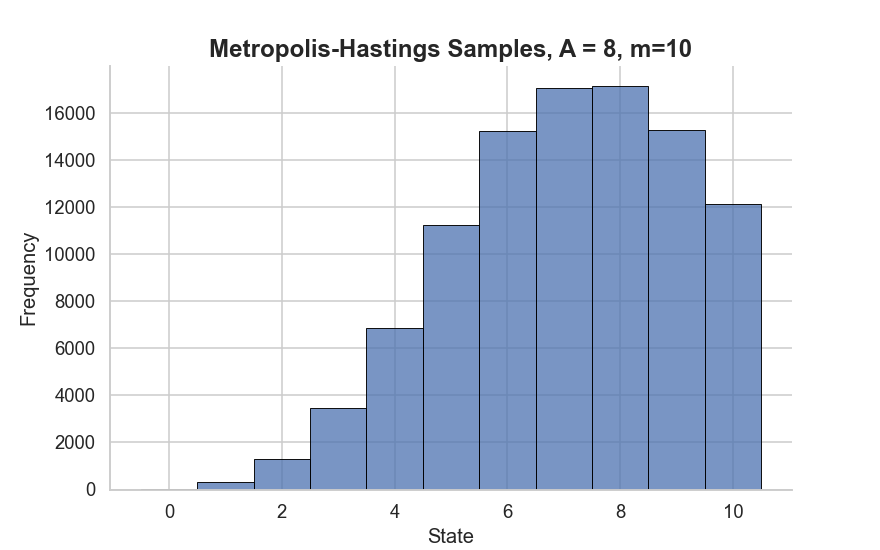
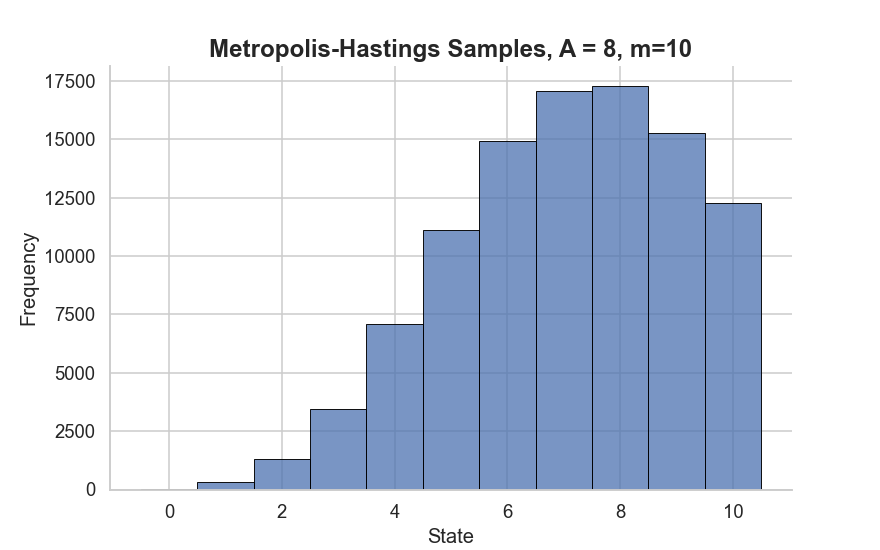
final updates

diff --git a/exercises/day5/mathilde/joint_lines.py b/exercises/day5/mathilde/joint_lines.py
@@ -16,78 +16,76 @@ def theoretical_grid(A1: float, A2: float, m: int) -> np.ndarray:
 
 def mh_direct(A1: float, A2: float, m: int, n: int, rng: np.random.Generator, burn_in: int = 1000, thin: int = 10) -> np.ndarray:
     """Direct 2D M-H random walk."""
+    weights = theoretical_grid(A1, A2, m)
+    total_steps = burn_in + n * thin
+    r = rng.random(total_steps)
+    u = rng.random(total_steps)
+
     samples = np.empty((n, 2), dtype=int)
     curr_i, curr_j = 0, 0
-    
-    total_steps = burn_in + n * thin
     for step in range(total_steps):
-        r = rng.random()
-        di, dj = 0, 0
-        if r < 0.25:
-            di = 1
-        elif r < 0.5:
-            di = -1
-        elif r < 0.75:
-            dj = 1
+        ri = r[step]
+        if ri < 0.25:
+            di, dj = 1, 0
+        elif ri < 0.5:
+            di, dj = -1, 0
+        elif ri < 0.75:
+            di, dj = 0, 1
         else:
-            dj = -1
-            
+            di, dj = 0, -1
+
         prop_i, prop_j = curr_i + di, curr_j + dj
-        
-        if prop_i < 0 or prop_i > m or prop_j < 0 or prop_j > m or prop_i + prop_j > m:
-            pass
-        else:
-            acc_prob = min(1.0, unnormalized_joint_pmf(A1, A2, prop_i, prop_j) / unnormalized_joint_pmf(A1, A2, curr_i, curr_j))
-            if rng.random() < acc_prob:
+        if 0 <= prop_i <= m and 0 <= prop_j <= m and prop_i + prop_j <= m:
+            if u[step] < weights[prop_i, prop_j] / weights[curr_i, curr_j]:
                 curr_i, curr_j = prop_i, prop_j
-                
+
         if step >= burn_in and (step - burn_in) % thin == 0:
             samples[(step - burn_in) // thin] = (curr_i, curr_j)
-            
+
     return samples
 
 def mh_coordinate(A1: float, A2: float, m: int, n: int, rng: np.random.Generator, burn_in: int = 1000, thin: int = 10) -> np.ndarray:
     """Coordinate-wise M-H choosing one coordinate to update at random."""
+    weights = theoretical_grid(A1, A2, m)
+    total_steps = burn_in + n * thin
+    coord = rng.random(total_steps) < 0.5
+    move = np.where(rng.random(total_steps) < 0.5, 1, -1)
+    u = rng.random(total_steps)
+
     samples = np.empty((n, 2), dtype=int)
     curr_i, curr_j = 0, 0
-    
-    total_steps = burn_in + n * thin
     for step in range(total_steps):
-        if rng.random() < 0.5:
-            prop_i, prop_j = curr_i + (1 if rng.random() < 0.5 else -1), curr_j
+        if coord[step]:
+            prop_i, prop_j = curr_i + move[step], curr_j
         else:
-            prop_i, prop_j = curr_i, curr_j + (1 if rng.random() < 0.5 else -1)
-            
-        if prop_i < 0 or prop_i > m or prop_j < 0 or prop_j > m or prop_i + prop_j > m:
-            pass
-        else:
-            acc_prob = min(1.0, unnormalized_joint_pmf(A1, A2, prop_i, prop_j) / unnormalized_joint_pmf(A1, A2, curr_i, curr_j))
-            if rng.random() < acc_prob:
+            prop_i, prop_j = curr_i, curr_j + move[step]
+
+        if 0 <= prop_i <= m and 0 <= prop_j <= m and prop_i + prop_j <= m:
+            if u[step] < weights[prop_i, prop_j] / weights[curr_i, curr_j]:
                 curr_i, curr_j = prop_i, prop_j
-                
+
         if step >= burn_in and (step - burn_in) % thin == 0:
             samples[(step - burn_in) // thin] = (curr_i, curr_j)
-            
+
     return samples
 
 def gibbs(A1: float, A2: float, m: int, n: int, rng: np.random.Generator, burn_in: int = 1000, thin: int = 10) -> np.ndarray:
     """Gibbs sampling with exact conditionals."""
+    cum1 = np.cumsum([(A1 ** k) / math.factorial(k) for k in range(m + 1)])
+    cum2 = np.cumsum([(A2 ** k) / math.factorial(k) for k in range(m + 1)])
+    total_steps = burn_in + n * thin
+    u_i = rng.random(total_steps)
+    u_j = rng.random(total_steps)
+
     samples = np.empty((n, 2), dtype=int)
     i, j = 0, 0
-    
-    total_steps = burn_in + n * thin
     for step in range(total_steps):
-        # sample i | j
-        support_i = np.arange(m - j + 1)
-        cond_density_i = np.array([(A1 ** k) / math.factorial(k) for k in support_i])
-        i = rng.choice(support_i, p=cond_density_i / np.sum(cond_density_i))
-        
-        # sample j | i
-        support_j = np.arange(m - i + 1)
-        cond_density_j = np.array([(A2 ** k) / math.factorial(k) for k in support_j])
-        j = rng.choice(support_j, p=cond_density_j / np.sum(cond_density_j))
-        
+        c_i = cum1[: m - j + 1]
+        i = int(np.searchsorted(c_i, u_i[step] * c_i[-1]))
+        c_j = cum2[: m - i + 1]
+        j = int(np.searchsorted(c_j, u_j[step] * c_j[-1]))
+
         if step >= burn_in and (step - burn_in) % thin == 0:
             samples[(step - burn_in) // thin] = (i, j)
-            
+
     return samples

diff --git a/exercises/day5/mathilde/main.py b/exercises/day5/mathilde/main.py
@@ -22,6 +22,7 @@ A1 = 4.0
 A2 = 4.0
 RHO = 0.5
 N_SAMPLES = 100_000
+DATA_SIZES = (10, 100, 1000)
 OUT = Path(__file__).resolve().parent
 
 def _theoretical_pmf_1d(A: float, m: int) -> np.ndarray:
@@ -90,37 +91,23 @@ def part3_bayesian(rng: np.random.Generator) -> None:
     print("\n=== Part 3: Bayesian Model ===")
     true_theta, true_psi = draw_prior(RHO, rng)
     print(f"  True (theta, psi) drawn from prior: ({true_theta:.4f}, {true_psi:.4f})")
-    
+
     import seaborn as sns
     import matplotlib.pyplot as plt
-    
-    # Generate 100 data points (Mathias used 100 for his posterior plot)
-    X_obs_100 = rng.normal(true_theta, np.sqrt(true_psi), size=100)
-    samples_100 = mh_posterior(X_obs_100, RHO, n_samples=100000, rng=rng, step=1.0, burn_in=10000, thin=10)
-    
-    theta_s = [s[0] for s in samples_100]
-    psi_s = [s[1] for s in samples_100]
-    
-    g = sns.jointplot(x=theta_s, y=psi_s, kind="scatter", alpha=0.3)
-    g.plot_joint(sns.kdeplot, color="red", levels=8, zorder=2)
-    g.figure.suptitle(f"Posterior Samples with rho={RHO}, n=100000", y=1.02)
-    g.set_axis_labels(r"$\theta$", r"$\psi$")
-    g.savefig(OUT / "part3_posterior.png")
-    plt.close()
-    
-    # Generate 1000 data points (Mathias used 1000 for his log posterior plot)
-    X_obs_1000 = rng.normal(true_theta, np.sqrt(true_psi), size=1000)
-    samples_1000 = mh_posterior(X_obs_1000, RHO, n_samples=100000, rng=rng, step=1.0, burn_in=10000, thin=10)
-    
-    theta_s_1000 = [s[0] for s in samples_1000]
-    psi_s_1000 = [s[1] for s in samples_1000]
-    
-    g2 = sns.jointplot(x=theta_s_1000, y=psi_s_1000, kind="scatter", alpha=0.3)
-    g2.plot_joint(sns.kdeplot, color="red", levels=8, zorder=2)
-    g2.figure.suptitle(f"Log Posterior Samples with rho={RHO}, n=100000", y=1.02)
-    g2.set_axis_labels(r"$\theta$", r"$\psi$")
-    g2.savefig(OUT / "part3_log_posterior.png")
-    plt.close()
+
+    for n in DATA_SIZES:
+        X_obs = rng.normal(true_theta, np.sqrt(true_psi), size=n)
+        samples = mh_posterior(X_obs, RHO, n_samples=N_SAMPLES, rng=rng, step=1.0, burn_in=10000, thin=10)
+
+        theta_s, psi_s = samples[:, 0], samples[:, 1]
+        print(f"  n={n:<4}: posterior mean (theta, psi) = ({theta_s.mean():.4f}, {psi_s.mean():.4f})")
+
+        g = sns.jointplot(x=theta_s, y=psi_s, kind="scatter", alpha=0.3)
+        g.plot_joint(sns.kdeplot, color="red", levels=8, zorder=2)
+        g.figure.suptitle(f"Posterior Samples with rho={RHO}, data n={n}", y=1.02)
+        g.set_axis_labels(r"$\theta$", r"$\psi$")
+        g.savefig(OUT / f"part3_posterior_n{n}.png")
+        plt.close()
 
 def main() -> None:
     rng = np.random.default_rng(SEED)

diff --git a/exercises/day5/mathilde/bayesian.py b/exercises/day5/mathilde/bayesian.py
@@ -26,27 +26,37 @@ def log_posterior(theta: float, psi: float, X: np.ndarray, rho: float) -> float:
 
 def mh_posterior(X_obs: np.ndarray, rho: float, n_samples: int, rng: np.random.Generator, step: float = 0.5, burn_in: int = 1000, thin: int = 10) -> np.ndarray:
     """Coordinate-wise random-walk M-H for the posterior."""
-    samples = np.empty((n_samples, 2))
-    # Start at a reasonable point
-    curr_theta = max(0.1, np.mean(X_obs))
-    curr_psi = max(0.1, np.var(X_obs))
-    
+    n = len(X_obs)
+    sum_x = float(np.sum(X_obs))
+    sum_x2 = float(np.sum(X_obs ** 2))
+
+    def log_post(theta: float, psi: float) -> float:
+        ll = -0.5 * n * np.log(2 * np.pi * psi) - (sum_x2 - 2 * theta * sum_x + n * theta**2) / (2 * psi)
+        return log_prior(theta, psi, rho) + ll
+
     total_steps = burn_in + n_samples * thin
+    deltas = rng.normal(0.0, step, total_steps)
+    which = rng.random(total_steps) < 0.5   # True → update theta
+    u = rng.random(total_steps)
+
+    samples = np.empty((n_samples, 2))
+    curr_theta = max(0.1, sum_x / n)
+    curr_psi = max(0.1, sum_x2 / n - (sum_x / n) ** 2)
+    curr_lp = log_post(curr_theta, curr_psi)
+
     for i in range(total_steps):
-        delta = rng.normal(loc=0, scale=step)
-        if rng.random() < 0.5:
-            prop_theta, prop_psi = curr_theta + delta, curr_psi
+        if which[i]:
+            prop_theta, prop_psi = curr_theta + deltas[i], curr_psi
         else:
-            prop_theta, prop_psi = curr_theta, curr_psi + delta
-            
-        if prop_psi <= 0 or prop_theta <= 0:
-            pass # reject
-        else:
-            acc_ratio = min(1.0, np.exp(log_posterior(prop_theta, prop_psi, X_obs, rho) - log_posterior(curr_theta, curr_psi, X_obs, rho)))
-            if rng.random() < acc_ratio:
+            prop_theta, prop_psi = curr_theta, curr_psi + deltas[i]
+
+        if prop_theta > 0 and prop_psi > 0:
+            prop_lp = log_post(prop_theta, prop_psi)
+            if u[i] < np.exp(min(0.0, prop_lp - curr_lp)):
                 curr_theta, curr_psi = prop_theta, prop_psi
-                
+                curr_lp = prop_lp
+
         if i >= burn_in and (i - burn_in) % thin == 0:
             samples[(i - burn_in) // thin] = (curr_theta, curr_psi)
-            
+
     return samples

diff --git a/exercises/day5/mathilde/truncated_poisson.py b/exercises/day5/mathilde/truncated_poisson.py
@@ -7,23 +7,19 @@ def unnormalized_pmf(A: float, i: int) -> float:
     return (A ** i) / math.factorial(i)
 
 def mh_sample(A: float, m: int, n: int, rng: np.random.Generator, burn_in: int = 1000, thin: int = 10) -> np.ndarray:
+    weights = np.array([unnormalized_pmf(A, i) for i in range(m + 1)])
+    total_steps = burn_in + n * thin
+    moves = np.where(rng.random(total_steps) < 0.5, 1, -1)
+    u = rng.random(total_steps)
+
     samples = np.empty(n, dtype=int)
     current_state = 0
-    
-    total_steps = burn_in + n * thin
     for step in range(total_steps):
-        # Propose state with equal probability -1 or 1
-        proposed_state = current_state + (1 if rng.random() < 0.5 else -1)
-        
-        # Reject if outside bounds
-        if proposed_state < 0 or proposed_state > m:
-            pass 
-        else:
-            acceptance_prob = min(1.0, unnormalized_pmf(A, proposed_state) / unnormalized_pmf(A, current_state))
-            if rng.random() < acceptance_prob:
-                current_state = proposed_state
-                
+        proposed_state = current_state + moves[step]
+        if 0 <= proposed_state <= m and u[step] < weights[proposed_state] / weights[current_state]:
+            current_state = proposed_state
+
         if step >= burn_in and (step - burn_in) % thin == 0:
             samples[(step - burn_in) // thin] = current_state
-            
+
     return samples
